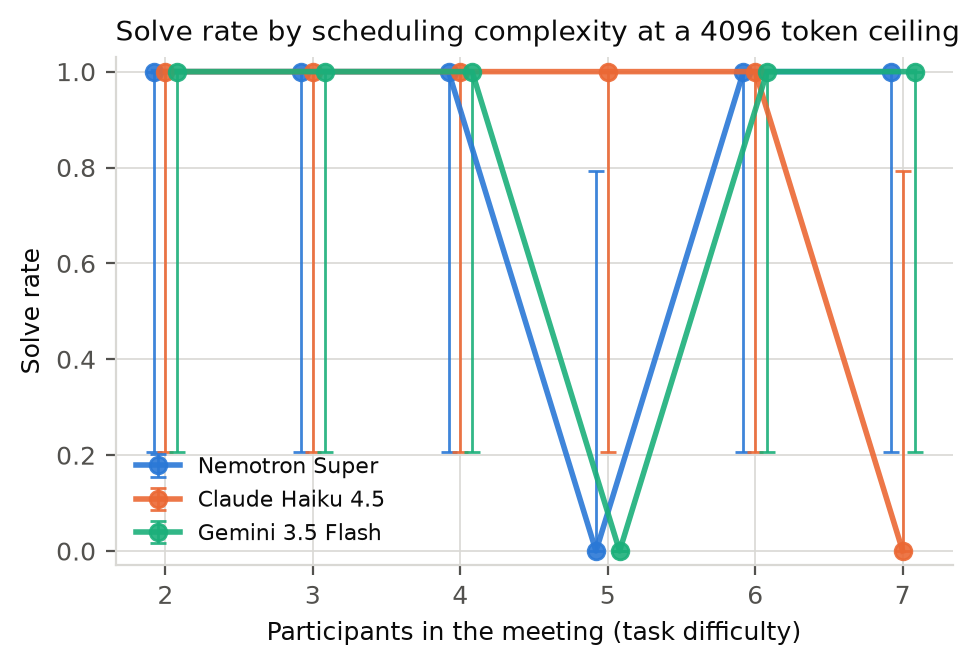
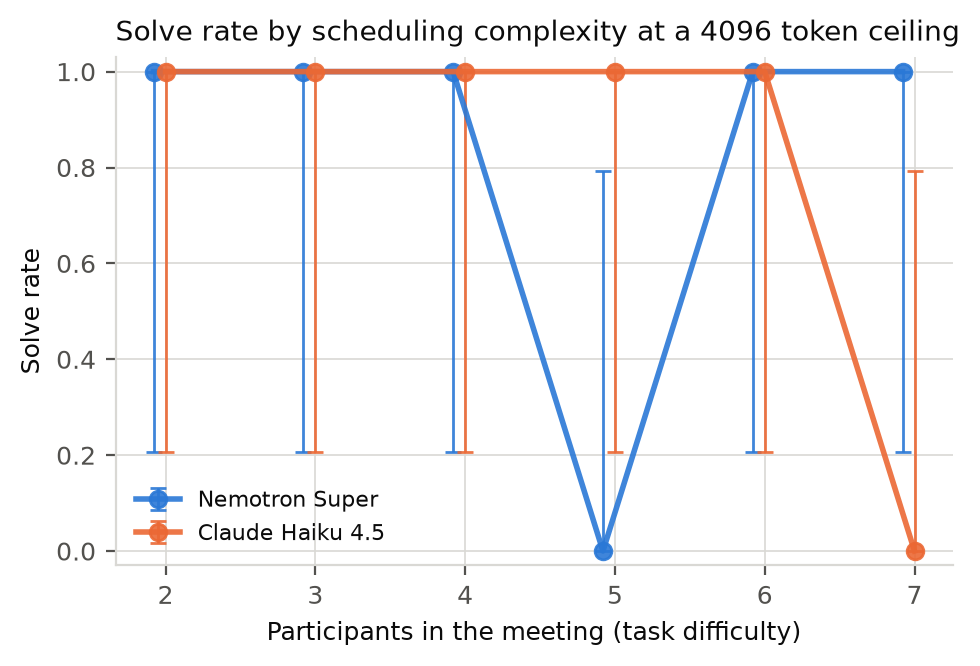
fix: stop plotting a truncation measurement we proved unsound
Gemini's records predate finish_reason capture, so its truncation rate
came from the token proxy that misses hidden thinking tokens. Plotting
it drew a flat zero line asserting Gemini was unaffected by the ceiling,
which its own raw generations refute: they are cut mid answer.

Figures now show the primary comparison only. Gemini stays in the
tables, labelled preliminary, where the error count and sample size are
visible next to it.

diff --git a/scripts/make_figures.py b/scripts/make_figures.py
@@ -39,6 +39,13 @@ LABEL_DY = {"nemotron": 13, "claude": 0, "gemini": -13}
 # points cluster at similar accuracy
 LABEL_DY_SCATTER = {"nemotron": 0, "claude": 30, "gemini": -30}
 
+# Figures plot the primary comparison only. Gemini is excluded because its
+# records predate finish_reason capture, so its truncation rate is measured by
+# the token proxy that we showed is unsound for models reasoning in hidden
+# tokens. Plotting it would draw a flat zero line asserting the very claim the
+# raw generations refute. It appears in the tables, labelled preliminary.
+PRIMARY = ("nemotron", "claude")
+
 plt.rcParams.update({
     "figure.dpi": 200, "savefig.dpi": 200, "savefig.bbox": "tight",
     "font.size": 9, "axes.titlesize": 10, "axes.labelsize": 9,
@@ -176,7 +183,8 @@ def fig_token_budget(recs, out="fig1_token_budget.png"):
     fig, (ax, bx) = plt.subplots(
         2, 1, figsize=(5.4, 5.0), sharex=True, gridspec_kw={"hspace": 0.18}
     )
-    for model, colour in SERIES.items():
+    for model in PRIMARY:
+        colour = SERIES[model]
         xs, ys, lo_e, hi_e, ts = [], [], [], [], []
         for b in budgets:
             rows = sel(recs, model, b)
@@ -228,7 +236,8 @@ def fig_difficulty(recs, out="fig2_difficulty.png"):
     # another and the lower ones would vanish. A small horizontal dodge keeps
     # every series visible without moving any point to a different bucket.
     dodge = {"nemotron": -0.08, "claude": 0.0, "gemini": 0.08}
-    for model, colour in SERIES.items():
+    for model in PRIMARY:
+        colour = SERIES[model]
         xs, ys, lo_e, hi_e = [], [], [], []
         for p_ in people:
             rows = sel(recs, model, top, p_)
@@ -259,7 +268,8 @@ def fig_efficiency(recs, out="fig3_efficiency.png"):
     top = budgets[-1] if budgets else None
     fig, ax = plt.subplots(figsize=(5.4, 3.3))
     max_tok = 0
-    for model, colour in SERIES.items():
+    for model in PRIMARY:
+        colour = SERIES[model]
         all_rows = sel(recs, model, top)
         ok = [r for r in all_rows if not r["error"]]
         if not ok:
